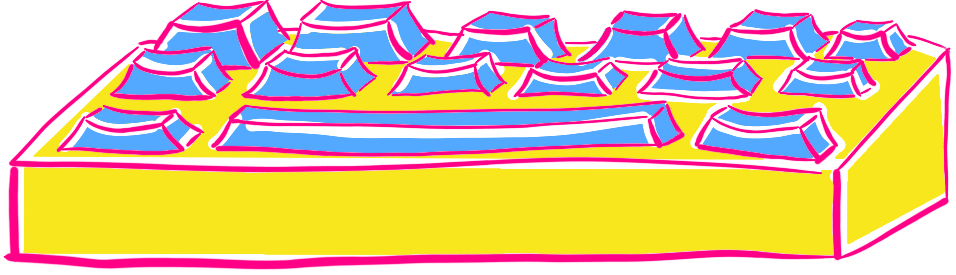
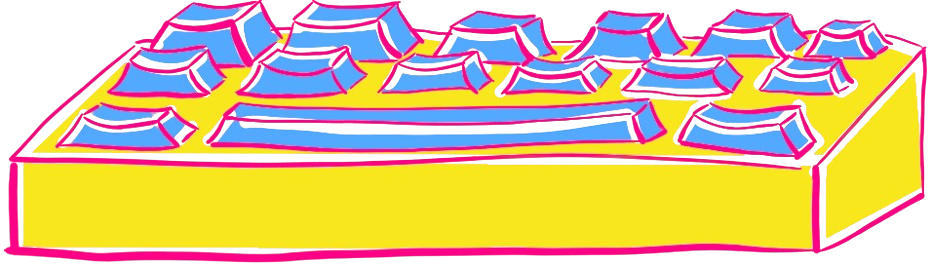
Day 2??

diff --git a/src/style.css b/src/style.css
@@ -8,15 +8,29 @@ html, body {
 	width: 100%;
 }
 
+:root {
+  --bright-purple: rgb(144, 19, 254);
+  --bright-red: rgb(208, 2, 27);
+  --sky-blue: rgb(83, 169, 255);
+  --hot-pink: rgb(255, 0, 134);
+  --black: rgb(0, 0, 0);
+  --high-yellow: rgb(248, 231, 28);
+  --brightpurple: 144, 19, 254;
+  --brightred: 208, 2, 27;
+  --skyblue: 83, 169, 255;
+  --hotpink: 255, 0, 134;
+  --highyellow: 248, 231, 28;
+}
+
 body {
 	text-align: center;
 	font-family: "Press Start 2P", system-ui;
 	font-weight: 400;
 	font-style: normal;
-	color: rgb(255, 0, 134);
+	color: var(--hot-pink);
 	margin: 0px;
 	background-size: 40px 40px;
-  	background-image: radial-gradient(circle, #ff0086 2px, rgba(0, 0, 0, 0) 2px);
+  	background-image: radial-gradient(circle, var(--hot-pink) 2px, var(--black) 2px);
 	background-color: #000000;
 }
 
@@ -29,6 +43,12 @@ img.logo {
 	margin: 0 auto;
 	width: 50%;
   	aspect-ratio: 16 / 9;
+	display: flex;
+    flex-wrap: nowrap;
+    flex-direction: column;
+    justify-content: center;
+    align-content: center;
+    align-items: center;
 }
 
 .outer-container {
@@ -49,15 +69,54 @@ p {
 	top: 0;
     position: fixed;
     right: 10px;
-	border-bottom: 2px solid #ff0086;
-  border-left: 2px solid #ff0086;
-  border-right: 2px solid #ff0086;
+	border-bottom: 2px solid var(--hot-pink);
+  	border-left: 2px solid var(--hot-pink);
+  	border-right: 2px solid var(--hot-pink);
   
-  border-bottom-left-radius: 10px;
-  border-bottom-right-radius: 10px;
+  	border-bottom-left-radius: 10px;
+  	border-bottom-right-radius: 10px;
 }
 
 img.github {
 	padding: 10px;
 	cursor: pointer;
+}
+
+button {
+	font-family: inherit;
+	padding: 12px;
+    padding-left: 20px;
+    padding-right: 20px;
+    border: 5px solid var(--sky-blue);
+    border-radius: 12px;
+    background-color: white;
+    color: var(--sky-blue);
+	font-variant: all-petite-caps;
+    font-size: clamp(16px, 1vw, 960px);
+	-webkit-box-shadow: 0px 0px 10px 10px rgba(var(--skyblue), 0.3);
+	-moz-box-shadow: 0px 0px 10px 10px rgba(var(--skyblue), 0.3);
+	box-shadow: 0px 0px 10px 10px rgba(var(--skyblue), 0.3);
+	cursor: pointer;
+}
+
+.second-container {
+	height: 50%;
+    width: 100%;
+    display: flex;
+    flex-direction: row;
+    flex-wrap: nowrap;
+    align-content: center;
+    justify-content: center;
+}
+
+.you-ship {
+	margin-right: 50px;
+}
+
+.we-ship {
+	margin-left: 50px;
+}
+
+.ys-icon {
+    width: clamp(16px, 30vw, 960px);
 }

diff --git a/src/index.html b/src/index.html
@@ -5,6 +5,7 @@
 		<link rel="preconnect" href="https://fonts.googleapis.com">
 		<link rel="preconnect" href="https://fonts.gstatic.com" crossorigin>
 		<link href="https://fonts.googleapis.com/css2?family=Press+Start+2P&display=swap" rel="stylesheet">
+		<link rel="stylesheet" href="https://cdnjs.cloudflare.com/ajax/libs/font-awesome/7.0.1/css/all.min.css" integrity="sha512-2SwdPD6INVrV/lHTZbO2nodKhrnDdJK9/kg2XD1r9uGqPo1cUbujc+IYdlYdEErWNu69gVcYgdxlmVmzTWnetw==" crossorigin="anonymous" referrerpolicy="no-referrer" />
 	</head>
 	<body>
 		<!--
@@ -17,14 +18,23 @@
 		<a href="timeline.html">Enter Hackintosh</a> -->
 		<div class="outer-container">
 			<div class="container">
-				<img src="images/logo.png" class="logo" />
+				<img src="images/flashback5x.png" class="logo" />
 				<p>You stumble into a dusty room full of old computers. An old Hackintosh lights up.</p>
+				<button><b>Sign Up <i class="fa-solid fa-arrow-right"></i></b></button>
 			</div>
 			<div class="tab">
 				<img src="images/git.png" class="github" />
 			</div>
 		</div>
 		
-		<p>hi</p>
+		<div class="second-container">
+			<div class="you-ship">
+				<img src="images/Keyboard.png" class="ys-icon" />
+				<p>Do Something</p>
+			</div>
+			<div class="we-ship">
+				<p>Get Old Merch</p>
+			</div>
+		</div>
 	</body>
 </html>
